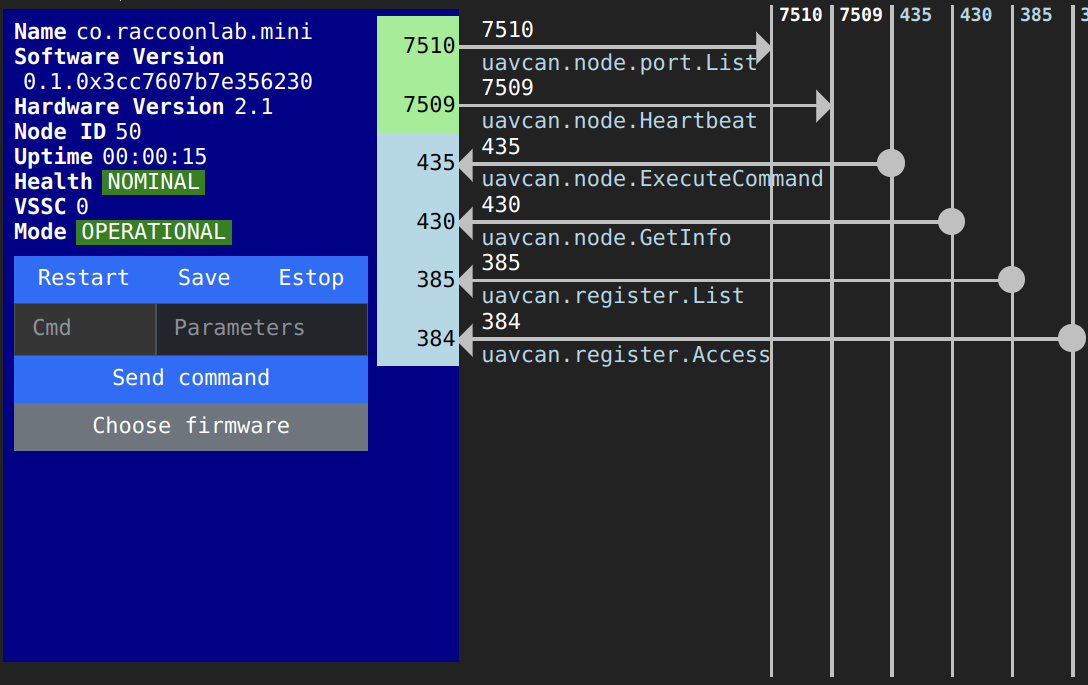
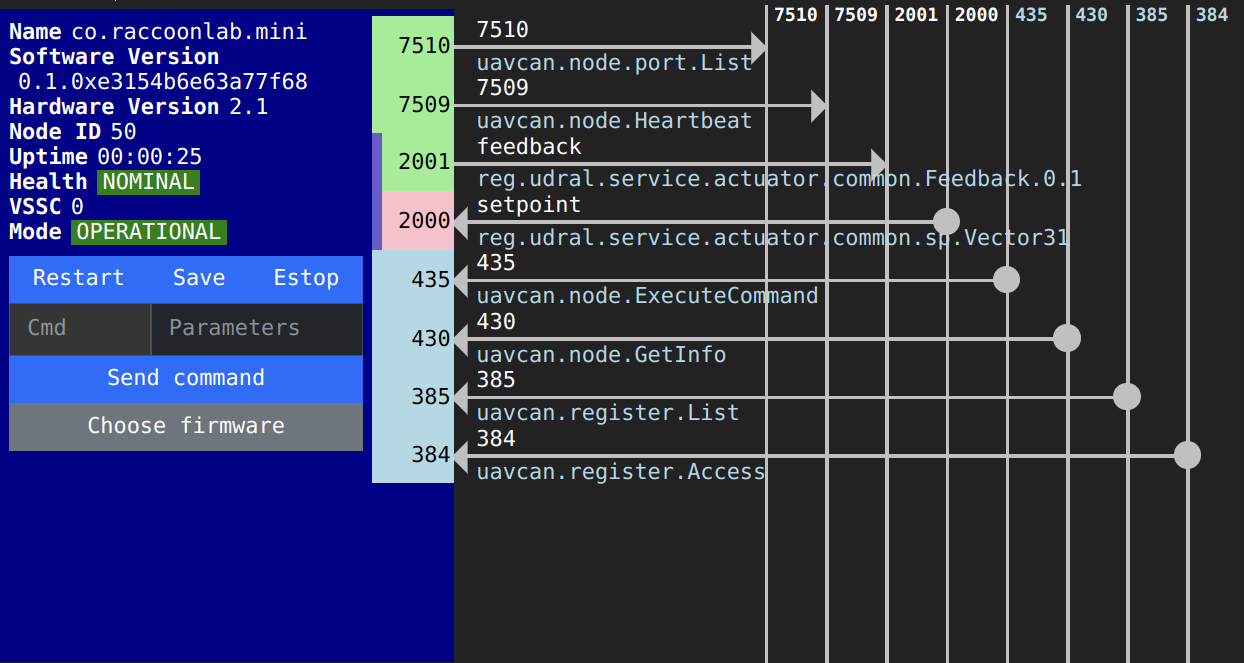
update readme

diff --git a/README.md b/README.md
@@ -78,7 +78,20 @@ source scripts/init.sh
 
 If you are strugguling with the software building, please refer to the build workflow [.github/workflows/build.yml](.github/workflows/build.yml) for a hint. If it doesn't help, you can open an issue.
 
-## 5. Reference
+## 5. Customization
+
+The peripherals are initialised in [Libs/mini-v2-software/Core/Src/main.c](Libs/mini-v2-software/Core/Src/main.c), which are automatically generated based on the configuratation file [can_pwm_v2.ioc](Libs/mini-v2-software/can_pwm_v2.ioc) file. If you want to use a different peripheral configuration, you should update can_pwm_v2.ioc with STM32CubeIDE or STM32CubeMX.
+
+The main application is started in [Src/cyphal_application/application.cpp](Src/cyphal_application/application.cpp).
+By default it just blinks the RGB LED, subscribes to the setpoint topic, controls a single PWM and publishes a feedback to the feedback topic. Note, that the application is as simple as possible and doesn't have safety features like TTL.
+
+You may consider [Src/cyphal_application/setpoint](Src/cyphal_application/setpoint) and [Src/cyphal_application/feedback](Src/cyphal_application/feedback) as examples of Cyphal-subscriber and Cyphal-publisher. It is recommended to create subjects by inhereting from CyphalPublisher or CyphalSubscriber and creating required registers in yaml file. This approach automatically adds all topics to the port.List array, allowing the node is able to advertise its capabilities.
+
+When you add your custom module, don't forget to add source file and path to the file with registers to [Src/cyphal_application/CMakeLists.txt](Src/cyphal_application/CMakeLists.txt). 
+
+You can also easily create custom Integer and String registers. An example is shown in [Src/cyphal_application/params.yaml](Src/cyphal_application/params.yaml).
+
+## 6. Reference
 
 The project has a few dependencies which are attached to the repository as submodules. They are:
 
@@ -86,5 +99,3 @@ The project has a few dependencies which are attached to the repository as submo
 - [Libs/Cyphal](https://github.com/RaccoonlabDev/libcanard_cyphal_application) is a general-purpose application based on the [Cyphal libcanard](https://github.com/OpenCyphal/libcanard), [o1heap](https://github.com/pavel-kirienko/o1heap) and other libraries with minimal required features to start and some features related to UDRAL/DS015.
 - [Src/libparams](https://github.com/PonomarevDA/libparams) is a simple library with ROM driver implementation that allows to store configuration parameters in persistent memory.
 - [not yet] Src/libsqcan is a general-purpose application based on [DroneCAN libcanard](https://github.com/dronecan/libcanard) with minimal required features to start. The DroneCAN part is not publically released yet.
-
-The application related source code is located ib the [Src/cyphal_application](Src/cyphal_application) folder. You will need to modify it for your custom application. For now, the sample application just blinks the LED and behaves like a Cyphal node with few registers.
